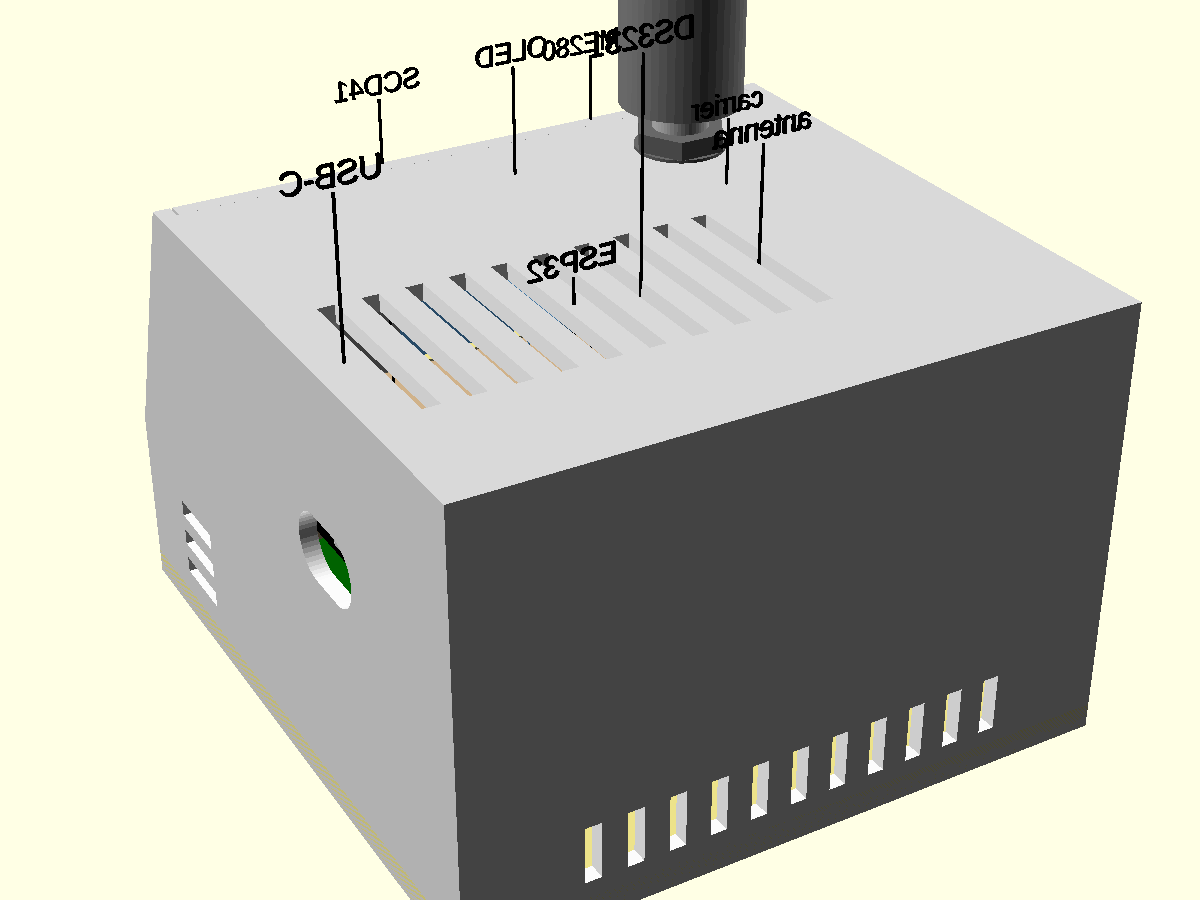
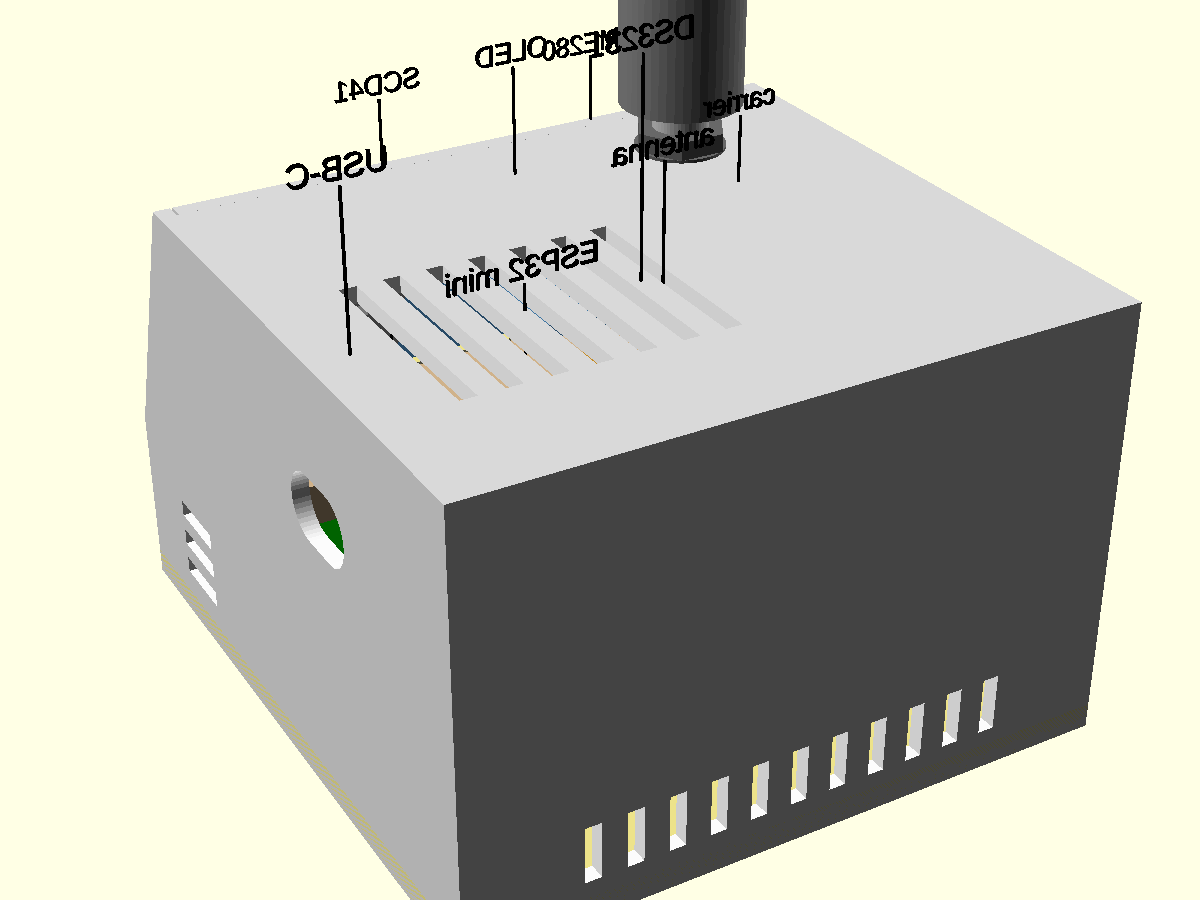
Enclosure: the ESP32 mini carrier as built (measured 2026-10-20): mini in four 10-pin sockets, pin headers + Dupont, wires underneath, standoffs 18
Claude-Session: https://claude.ai/code/session_01QAmQcKaXwkWyYWtcvPsXdC

Changed region(s): [[0.2158, 0.1556, 0.555, 0.4356], [0.4933, 0.0933, 0.6783, 0.1867], [0.2158, 0.5289, 0.3083, 0.6844]]

diff --git a/enclosure/README.md b/enclosure/README.md
@@ -1,7 +1,7 @@
 # Enclosure (ROADMAP task 15)
 
 OpenSCAD model of the case, `enclosure.scad`, for the first finished build:
-ESP32 DevKit, OLED, KY-040, SCD41, BME280, DS3231, no battery. Open it in
+ESP32 mini, OLED, KY-040, SCD41, BME280, DS3231, no battery. Open it in
 OpenSCAD for the assembled view (modules as coloured stand-in blocks,
 see-through gold = plugged-in connectors). `-D cut=40` cuts the printed
 parts away left of x = 40; `-D explode=40 -D explode_front=30` pulls the
@@ -53,13 +53,17 @@ Inside:
   slots. Nothing warm inside it. Cables out through a notch in the hood's
   back wall. ~16 mm tall inside: solder the sensor cables straight on or
   use right-angle pins.
-- **Carrier**: the uncut 60 x 40 Miuzei perfboard on 4 standoffs, 16 mm
-  tall: the DS3231 lies on the floor under it (holder, coin cell up, JST
-  cable). The ESP32 plugs into two 15-pin female headers on it, left to
-  right, USB-C out the right side; its antenna end is over the board, under
-  the knob, nothing else above it. Five JST-XH sockets: BME280, SCD41, OLED
-  along the front edge, RTC and KNOB at the left end. The hole grid is
-  ASSUMED centred on the board.
+- **Carrier** (built and measured 2026-10-20): the uncut 60 x 40 Miuzei
+  perfboard on 4 standoffs, 18 mm tall, socket side up, its soldered
+  wires (~5) underneath, white loops ~6 past its back edge. The DS3231
+  lies on the floor under it, 2 below the wires (holder, coin cell up).
+  The ESP32 mini plugs into four 10-pin female sockets (rows 1-2 / 11-12,
+  cols 10-19; 8.35 socket + 2.42 of the mini's own header = 10.77 to its
+  board), can up, USB-C 2.5 + 1.22 past the carrier out the right side,
+  antenna end left. Five straight male pin headers in cols 0-4 (KNOB
+  5-pin at the back, four 4-pin I2C), Dupont jumpers on them (made to
+  length once the case is printed). The hole grid is ASSUMED centred on
+  the board.
 - **OLED**: glass flat on the plate's inner face between 4 corner stops,
   two clamp bars screwed to posts beside it. The posts stop 0.3 short of
   the PCB's back, so the bars press on it. Its corner holes aren't used
@@ -94,7 +98,7 @@ Self-tapping screws from the two kits (Homebox: `parts.py show screws`):
 - 2 × 2 × 4, black kit (OLED clamps; pilot 1.6)
 - 4 × 2 × 6, black kit (carrier → standoffs; pilot 1.6). Lay the perfboard
   in its outline on the base, mark the standoffs through, drill 2.5.
-- 2 × 15-pin female headers, JST-XH sockets + cables, 4 rubber feet ≥ 2 mm
+- Dupont jumpers for the five headers, 4 rubber feet ≥ 2 mm
   (they lift the floor slots off the desk)
 
 ## Assembly
@@ -110,8 +114,10 @@ Self-tapping screws from the two kits (Homebox: `parts.py show screws`):
 
 ## Before ordering
 
-1. **Measure the female headers' height** (`hdr_h` = 8.5 assumed): it sets
-   the ESP32's height and so the USB hole's (8 tall for a ~6.5 plug: ±0.75).
+1. **The front two I2C headers are under the knob** (rows 0 and 3, the
+   KY-040 board and its plug above them): a Dupont plug + 5 of straight
+   cable ends 0.1 under the knob board and ~1 under its plug, so those
+   cables must bend away at once. Not decided yet.
 2. Where the perfboard's hole grid sits (assumed centred): shifts the USB
    sideways (hole 13 wide for a ~12 plug).
 3. Check in OpenSCAD and against the cardboard mock-up.

diff --git a/CLAUDE.md b/CLAUDE.md
@@ -30,11 +30,10 @@ rule: UI, or API with the user's OK, never silently). Rules that span parts:
   `/dev/ttyACM0`. Mounting: female headers soldered on the carrier first,
   then the mini's male headers plugged into them (long pins down, plastic
   under the mini) and soldered on the can side; the user solders.
-  **`enclosure/enclosure.scad` is still the DevKit**: port the mini's
-  carrier layout (git history, `enclosure_v3.scad` at 8a2acf1: four 10-pin
-  rows in rows 1/2/11/12, sockets stacked at the left end) into it, keeping
-  its fixes, before printing. Until then:
-  ESP32 DevKit 30-pin, flashes on `/dev/ttyUSB0`. The blue GPIO2
+  The carrier is built (2026-10-20: mini in four 10-pin sockets, straight
+  pin headers for the modules, Dupont jumpers) and `enclosure/enclosure.scad`
+  models it (measurements: `enclosure/README.md`, Carrier). Until the
+  firmware runs on it: ESP32 DevKit 30-pin, flashes on `/dev/ttyUSB0`. The blue GPIO2
   LED is off in this firmware.
 - **Modules in this build**, all I2C ones in parallel on D21 (SDA) / D22 (SCL),
   all on 3V3 (addresses: each part's entry, and `KNOWN_I2C` in `main/main.c`):
